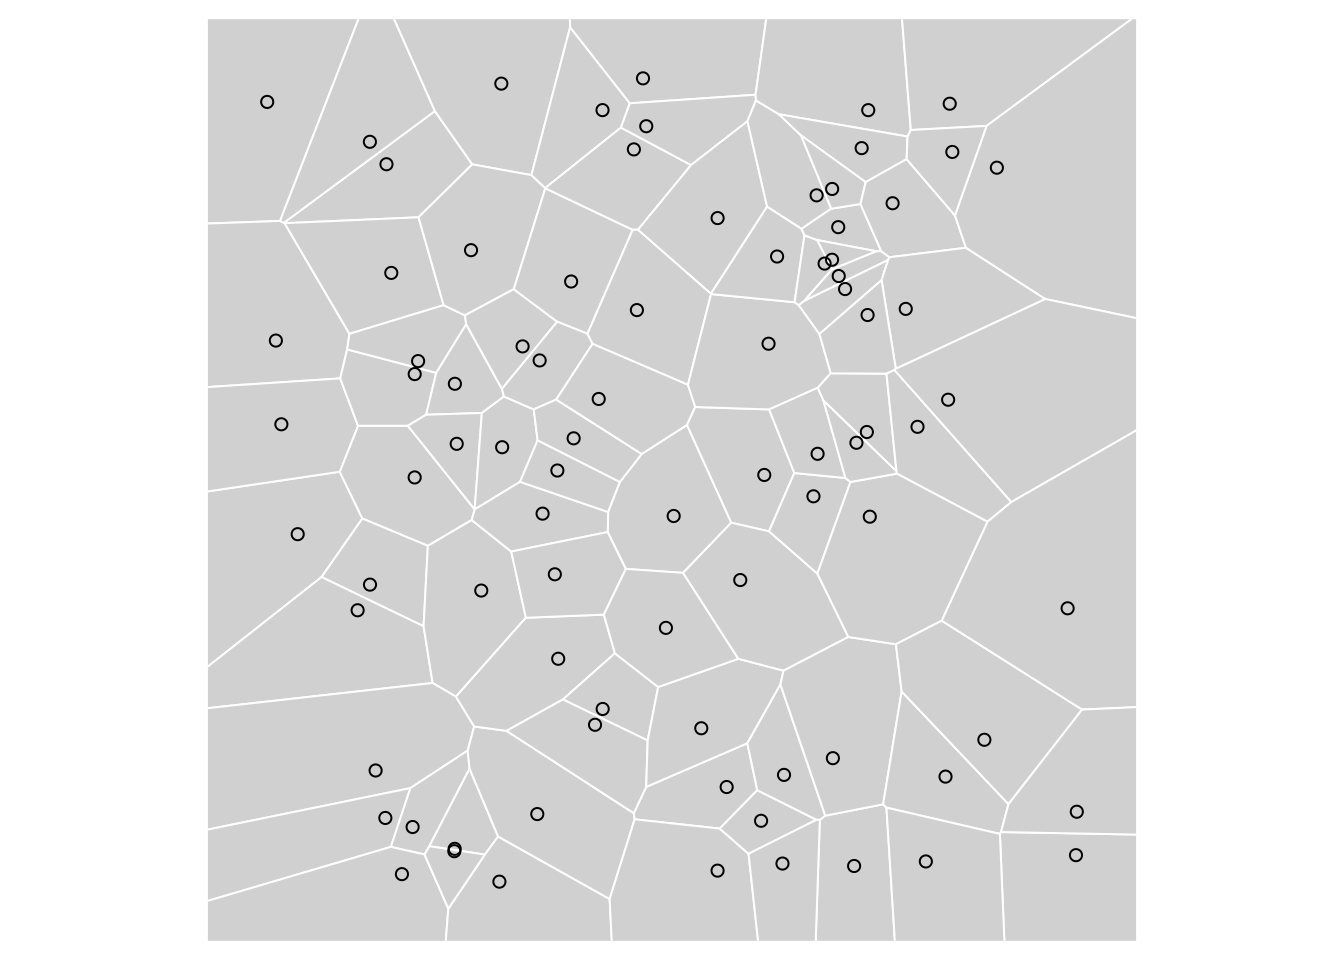
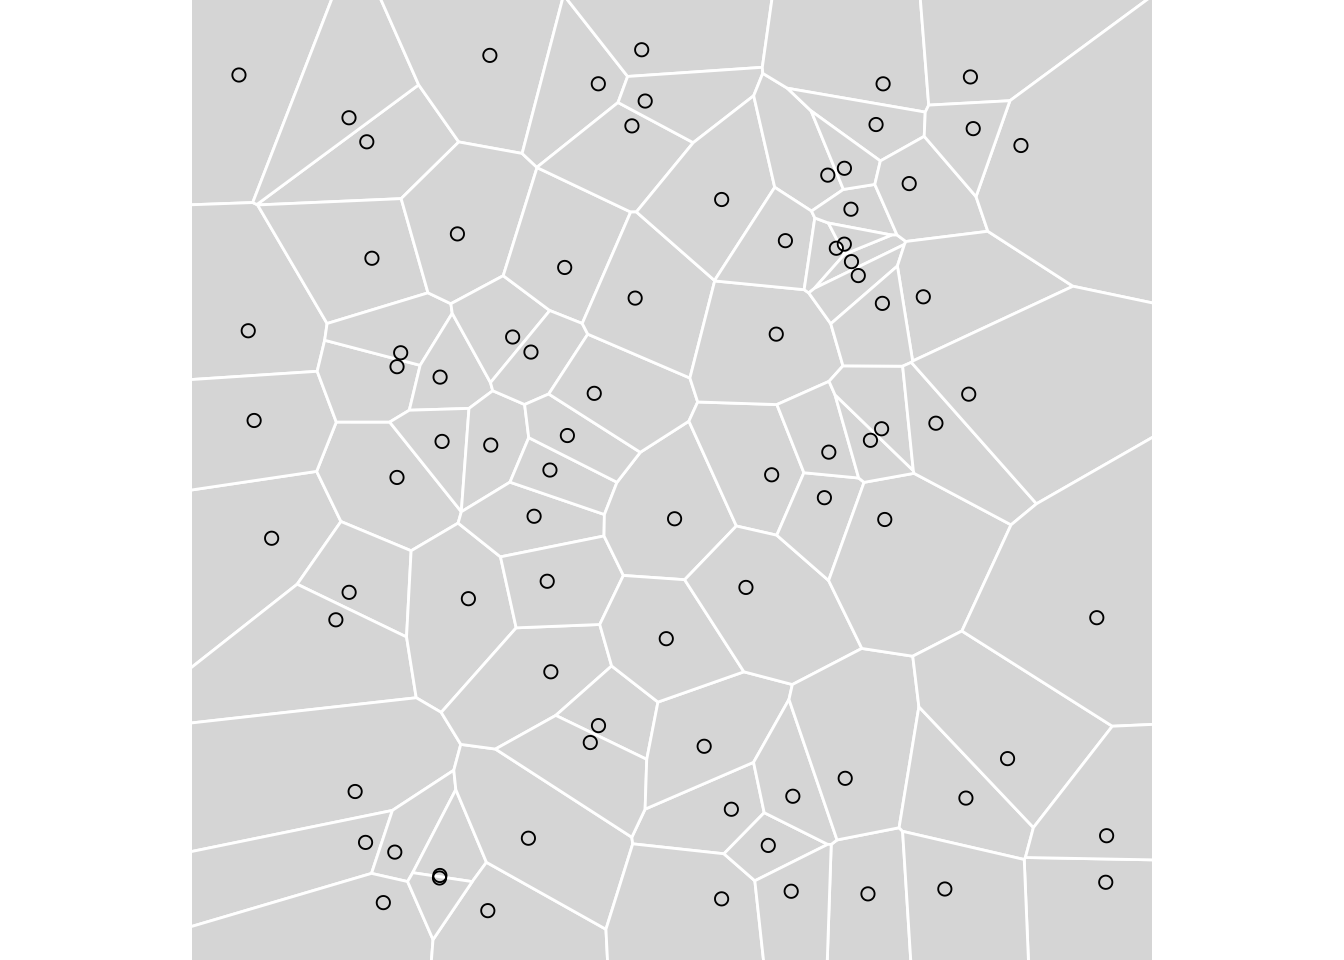
2.7 updated to ggplot

diff --git a/docs/chapters/chap2/fig2-07-point-voronoi.html b/docs/chapters/chap2/fig2-07-point-voronoi.html
@@ -228,7 +228,7 @@ pre > code.sourceCode > span > a:first-child::before { text-decoration: underlin
 <summary>Code</summary>
 <div class="sourceCode cell-code" id="cb1"><pre class="sourceCode r code-with-copy"><code class="sourceCode r"><span id="cb1-1"><a href="#cb1-1" aria-hidden="true" tabindex="-1"></a><span class="fu">library</span>(spatstat)</span>
 <span id="cb1-2"><a href="#cb1-2" aria-hidden="true" tabindex="-1"></a><span class="fu">library</span>(sf)</span>
-<span id="cb1-3"><a href="#cb1-3" aria-hidden="true" tabindex="-1"></a><span class="fu">library</span>(tmap)</span></code><button title="Copy to Clipboard" class="code-copy-button"><i class="bi"></i></button></pre></div>
+<span id="cb1-3"><a href="#cb1-3" aria-hidden="true" tabindex="-1"></a><span class="fu">library</span>(ggplot2)</span></code><button title="Copy to Clipboard" class="code-copy-button"><i class="bi"></i></button></pre></div>
 </details>
 </div>
 <p>There are a few steps making a <code>spatstat</code> point pattern into a simple features dataset…</p>
@@ -255,11 +255,11 @@ pre > code.sourceCode > span > a:first-child::before { text-decoration: underlin
 <div class="cell">
 <details open="" class="code-fold">
 <summary>Code</summary>
-<div class="sourceCode cell-code" id="cb4"><pre class="sourceCode r code-with-copy"><code class="sourceCode r"><span id="cb4-1"><a href="#cb4-1" aria-hidden="true" tabindex="-1"></a><span class="fu">tm_shape</span>(pp_vor, <span class="at">bbox =</span> pp <span class="sc">%&gt;%</span> <span class="fu">st_union</span>() <span class="sc">%&gt;%</span> <span class="fu">st_buffer</span>(<span class="fl">0.05</span>)) <span class="sc">+</span> </span>
-<span id="cb4-2"><a href="#cb4-2" aria-hidden="true" tabindex="-1"></a>  <span class="fu">tm_polygons</span>(<span class="at">border.col =</span> <span class="st">"white"</span>) <span class="sc">+</span></span>
-<span id="cb4-3"><a href="#cb4-3" aria-hidden="true" tabindex="-1"></a>  <span class="fu">tm_shape</span>(pp) <span class="sc">+</span> </span>
-<span id="cb4-4"><a href="#cb4-4" aria-hidden="true" tabindex="-1"></a>  <span class="fu">tm_bubbles</span>(<span class="at">col =</span> <span class="st">"white"</span>, <span class="at">alpha =</span> <span class="dv">0</span>, <span class="at">border.col =</span> <span class="st">"black"</span>, <span class="at">size =</span> <span class="fl">0.1</span>) <span class="sc">+</span></span>
-<span id="cb4-5"><a href="#cb4-5" aria-hidden="true" tabindex="-1"></a>  <span class="fu">tm_layout</span>(<span class="at">frame =</span> <span class="cn">FALSE</span>)</span></code><button title="Copy to Clipboard" class="code-copy-button"><i class="bi"></i></button></pre></div>
+<div class="sourceCode cell-code" id="cb4"><pre class="sourceCode r code-with-copy"><code class="sourceCode r"><span id="cb4-1"><a href="#cb4-1" aria-hidden="true" tabindex="-1"></a><span class="fu">ggplot</span>(pp_vor) <span class="sc">+</span></span>
+<span id="cb4-2"><a href="#cb4-2" aria-hidden="true" tabindex="-1"></a>  <span class="fu">geom_sf</span>(<span class="at">fill =</span> <span class="st">"#dddddd"</span>, <span class="at">color =</span> <span class="st">"white"</span>, <span class="at">lwd =</span> <span class="fl">0.5</span>) <span class="sc">+</span></span>
+<span id="cb4-3"><a href="#cb4-3" aria-hidden="true" tabindex="-1"></a>  <span class="fu">geom_sf</span>(<span class="at">data =</span> pp, <span class="at">colour =</span> <span class="st">"black"</span>, <span class="at">shape =</span> <span class="dv">1</span>, <span class="at">size =</span> <span class="dv">2</span>) <span class="sc">+</span></span>
+<span id="cb4-4"><a href="#cb4-4" aria-hidden="true" tabindex="-1"></a>  <span class="fu">coord_sf</span>(<span class="at">xlim =</span> <span class="fu">c</span>(<span class="sc">-</span><span class="fl">0.05</span>, <span class="fl">1.05</span>), <span class="at">ylim =</span> <span class="fu">c</span>(<span class="sc">-</span><span class="fl">0.05</span>, <span class="fl">1.05</span>), <span class="at">expand =</span> <span class="cn">FALSE</span>) <span class="sc">+</span></span>
+<span id="cb4-5"><a href="#cb4-5" aria-hidden="true" tabindex="-1"></a>  <span class="fu">theme_void</span>()</span></code><button title="Copy to Clipboard" class="code-copy-button"><i class="bi"></i></button></pre></div>
 </details>
 <div class="cell-output-display">
 <div>
@@ -299,7 +299,7 @@ pre > code.sourceCode > span > a:first-child::before { text-decoration: underlin
 
 
 
-<p>© 2023 David O’Sullivan</p></main> <!-- /main -->
+<p>© 2023-24 David O’Sullivan</p></main> <!-- /main -->
 <script id="quarto-html-after-body" type="application/javascript">
 window.document.addEventListener("DOMContentLoaded", function (event) {
   const toggleBodyColorMode = (bsSheetEl) => {
@@ -710,7 +710,7 @@ window.document.addEventListener("DOMContentLoaded", function (event) {
 });
 </script>
 </div> <!-- /content -->
-<script>var lightboxQuarto = GLightbox({"selector":".lightbox","openEffect":"zoom","descPosition":"bottom","closeEffect":"zoom","loop":false});
+<script>var lightboxQuarto = GLightbox({"descPosition":"bottom","closeEffect":"zoom","selector":".lightbox","loop":false,"openEffect":"zoom"});
 window.onload = () => {
   lightboxQuarto.on('slide_before_load', (data) => {
     const { slideIndex, slideNode, slideConfig, player, trigger } = data;

diff --git a/docs/index-listing.html b/docs/index-listing.html
@@ -312,7 +312,7 @@ window.Quarto = {
 <a href="./chapters/chap2/fig2-06-slivers-and-gaps.html" class="title listing-title">Figures 2.6 Slivers and gaps in a polygon layer</a>
 </td>
 </tr>
-<tr data-index="8" data-categories="figures,code,R" data-listing-file-modified-sort="1712051747343" data-listing-reading-time-sort="2" data-listing-word-count-sort="298" data-listing-title-sort="Figure 2.7 Voronoi polygons associated with a set of point locations" data-listing-filename-sort="fig2-07-point-voronoi.qmd">
+<tr data-index="8" data-categories="figures,code,R" data-listing-file-modified-sort="1731671628065" data-listing-reading-time-sort="2" data-listing-word-count-sort="303" data-listing-title-sort="Figure 2.7 Voronoi polygons associated with a set of point locations" data-listing-filename-sort="fig2-07-point-voronoi.qmd">
 <td>
 <a href="./chapters/chap2/fig2-07-point-voronoi.html" class="title listing-title">Figure 2.7 Voronoi polygons associated with a set of point locations</a>
 </td>

diff --git a/docs/chapters/chap2/index.html b/docs/chapters/chap2/index.html
@@ -399,7 +399,7 @@ Here is how slivers and gaps can happen…
 </div>
 </a>
 </div>
-<div class="g-col-1" data-index="5" data-categories="figures,code,R" data-listing-file-modified-sort="1712051747343" data-listing-reading-time-sort="2" data-listing-word-count-sort="298">
+<div class="g-col-1" data-index="5" data-categories="figures,code,R" data-listing-file-modified-sort="1731671628065" data-listing-reading-time-sort="2" data-listing-word-count-sort="303">
 <a href="../../chapters/chap2/fig2-07-point-voronoi.html" class="quarto-grid-link">
 <div class="quarto-grid-item card h-100 card-left">
 <p class="card-img-top"><img src="fig2-07-point-voronoi_files/figure-html/unnamed-chunk-4-1.png" style="height: 150px;"  class="thumbnail-image card-img"/></p>
